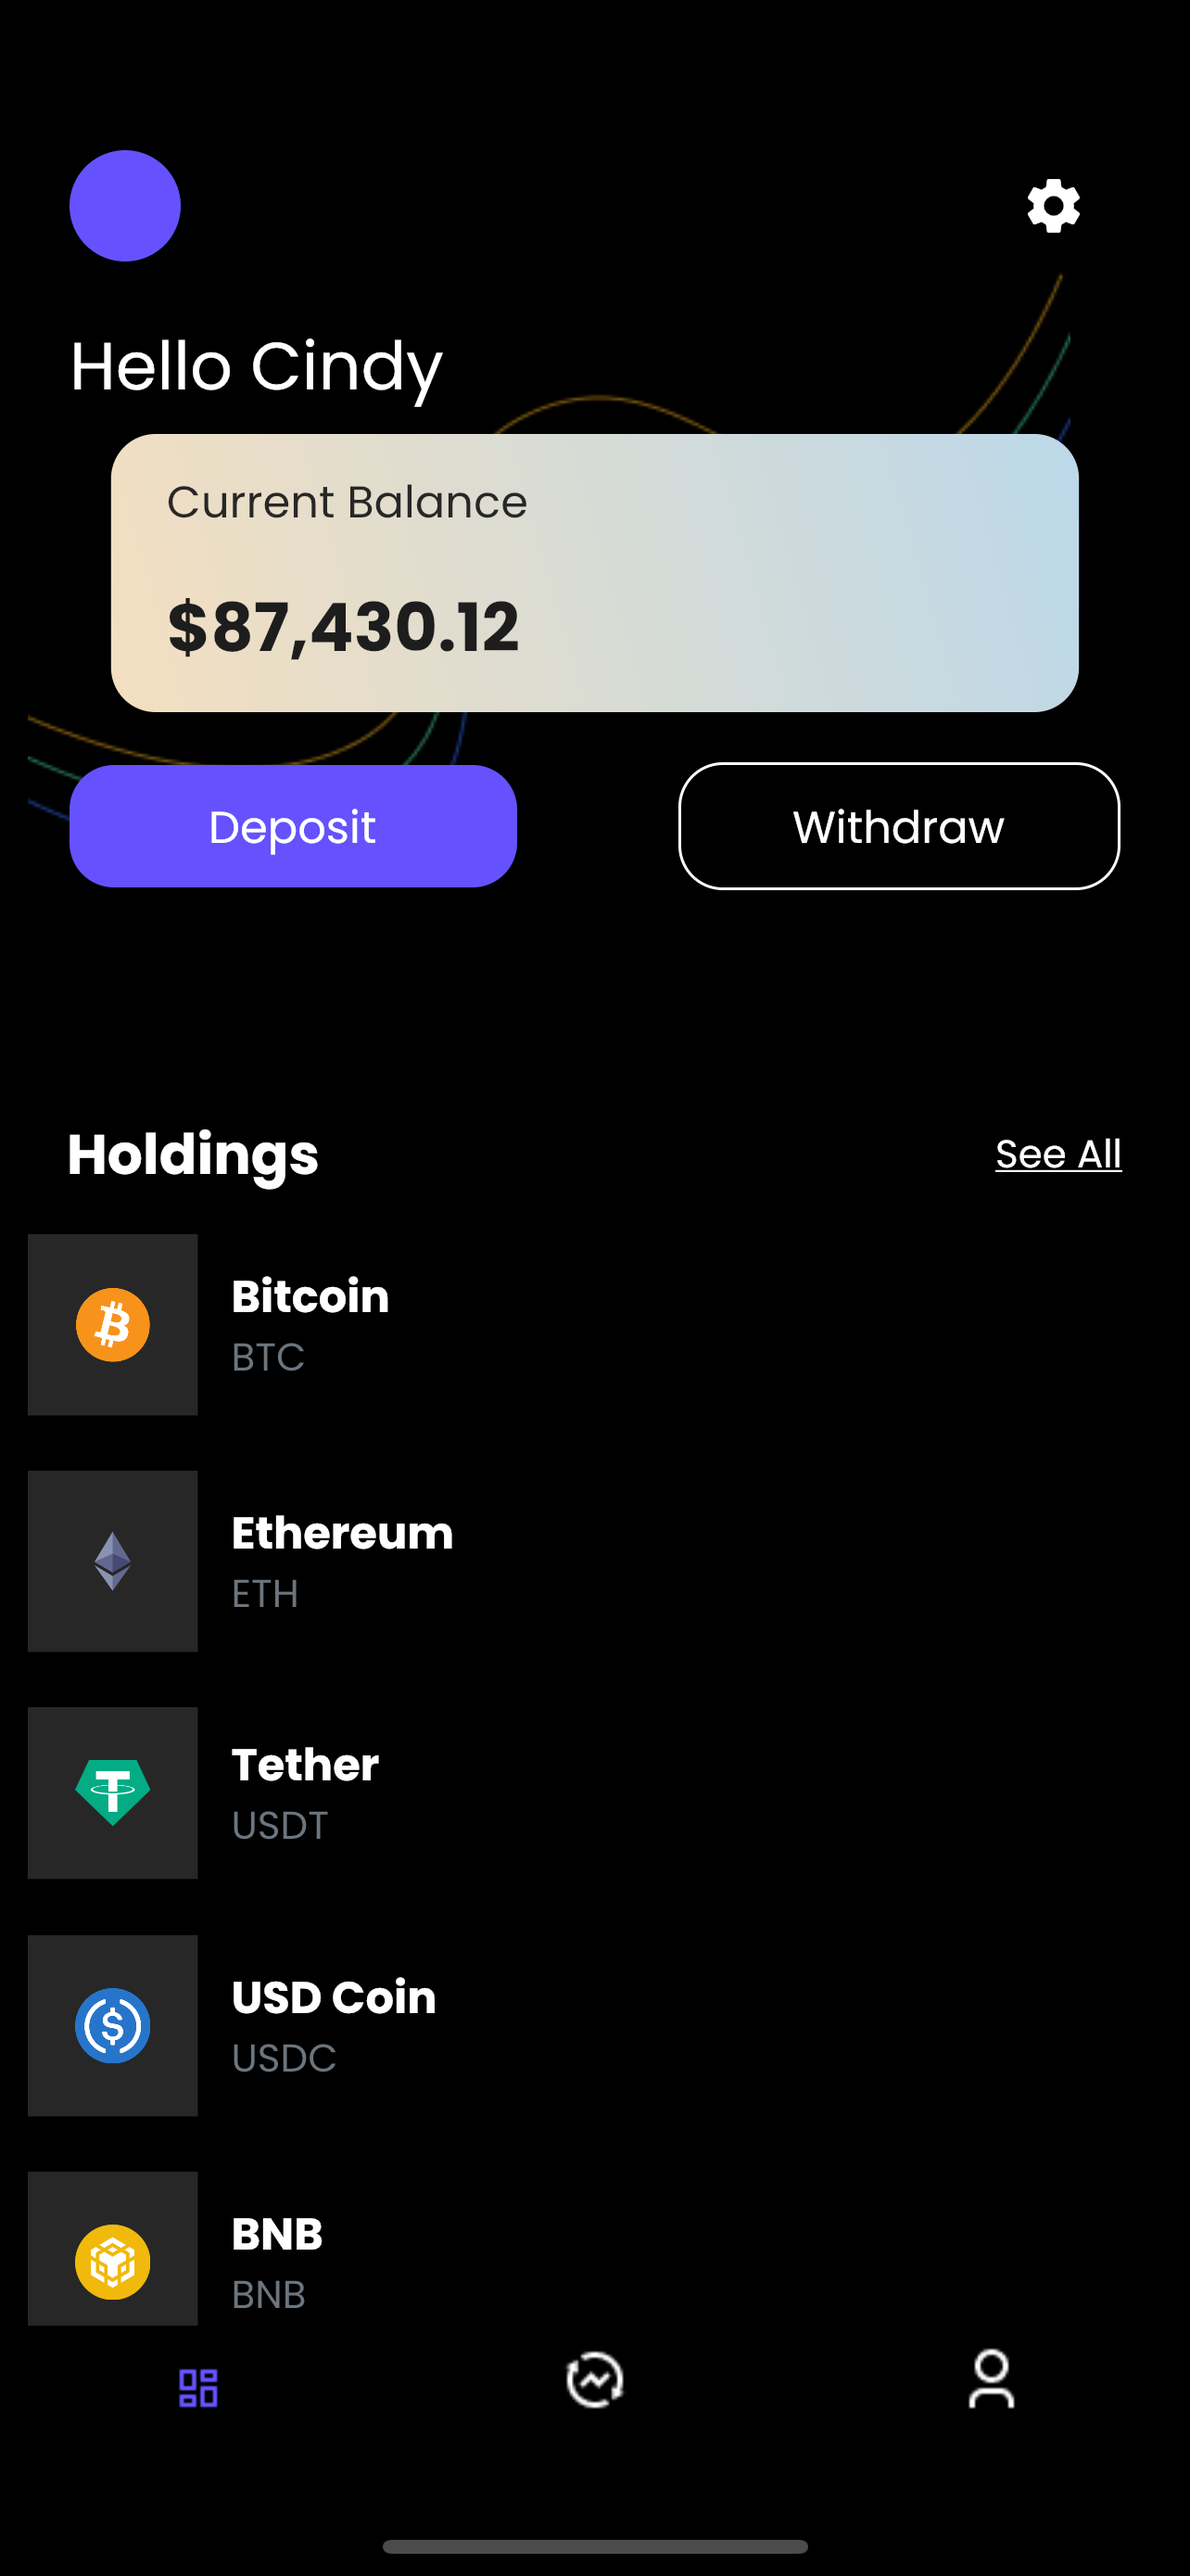
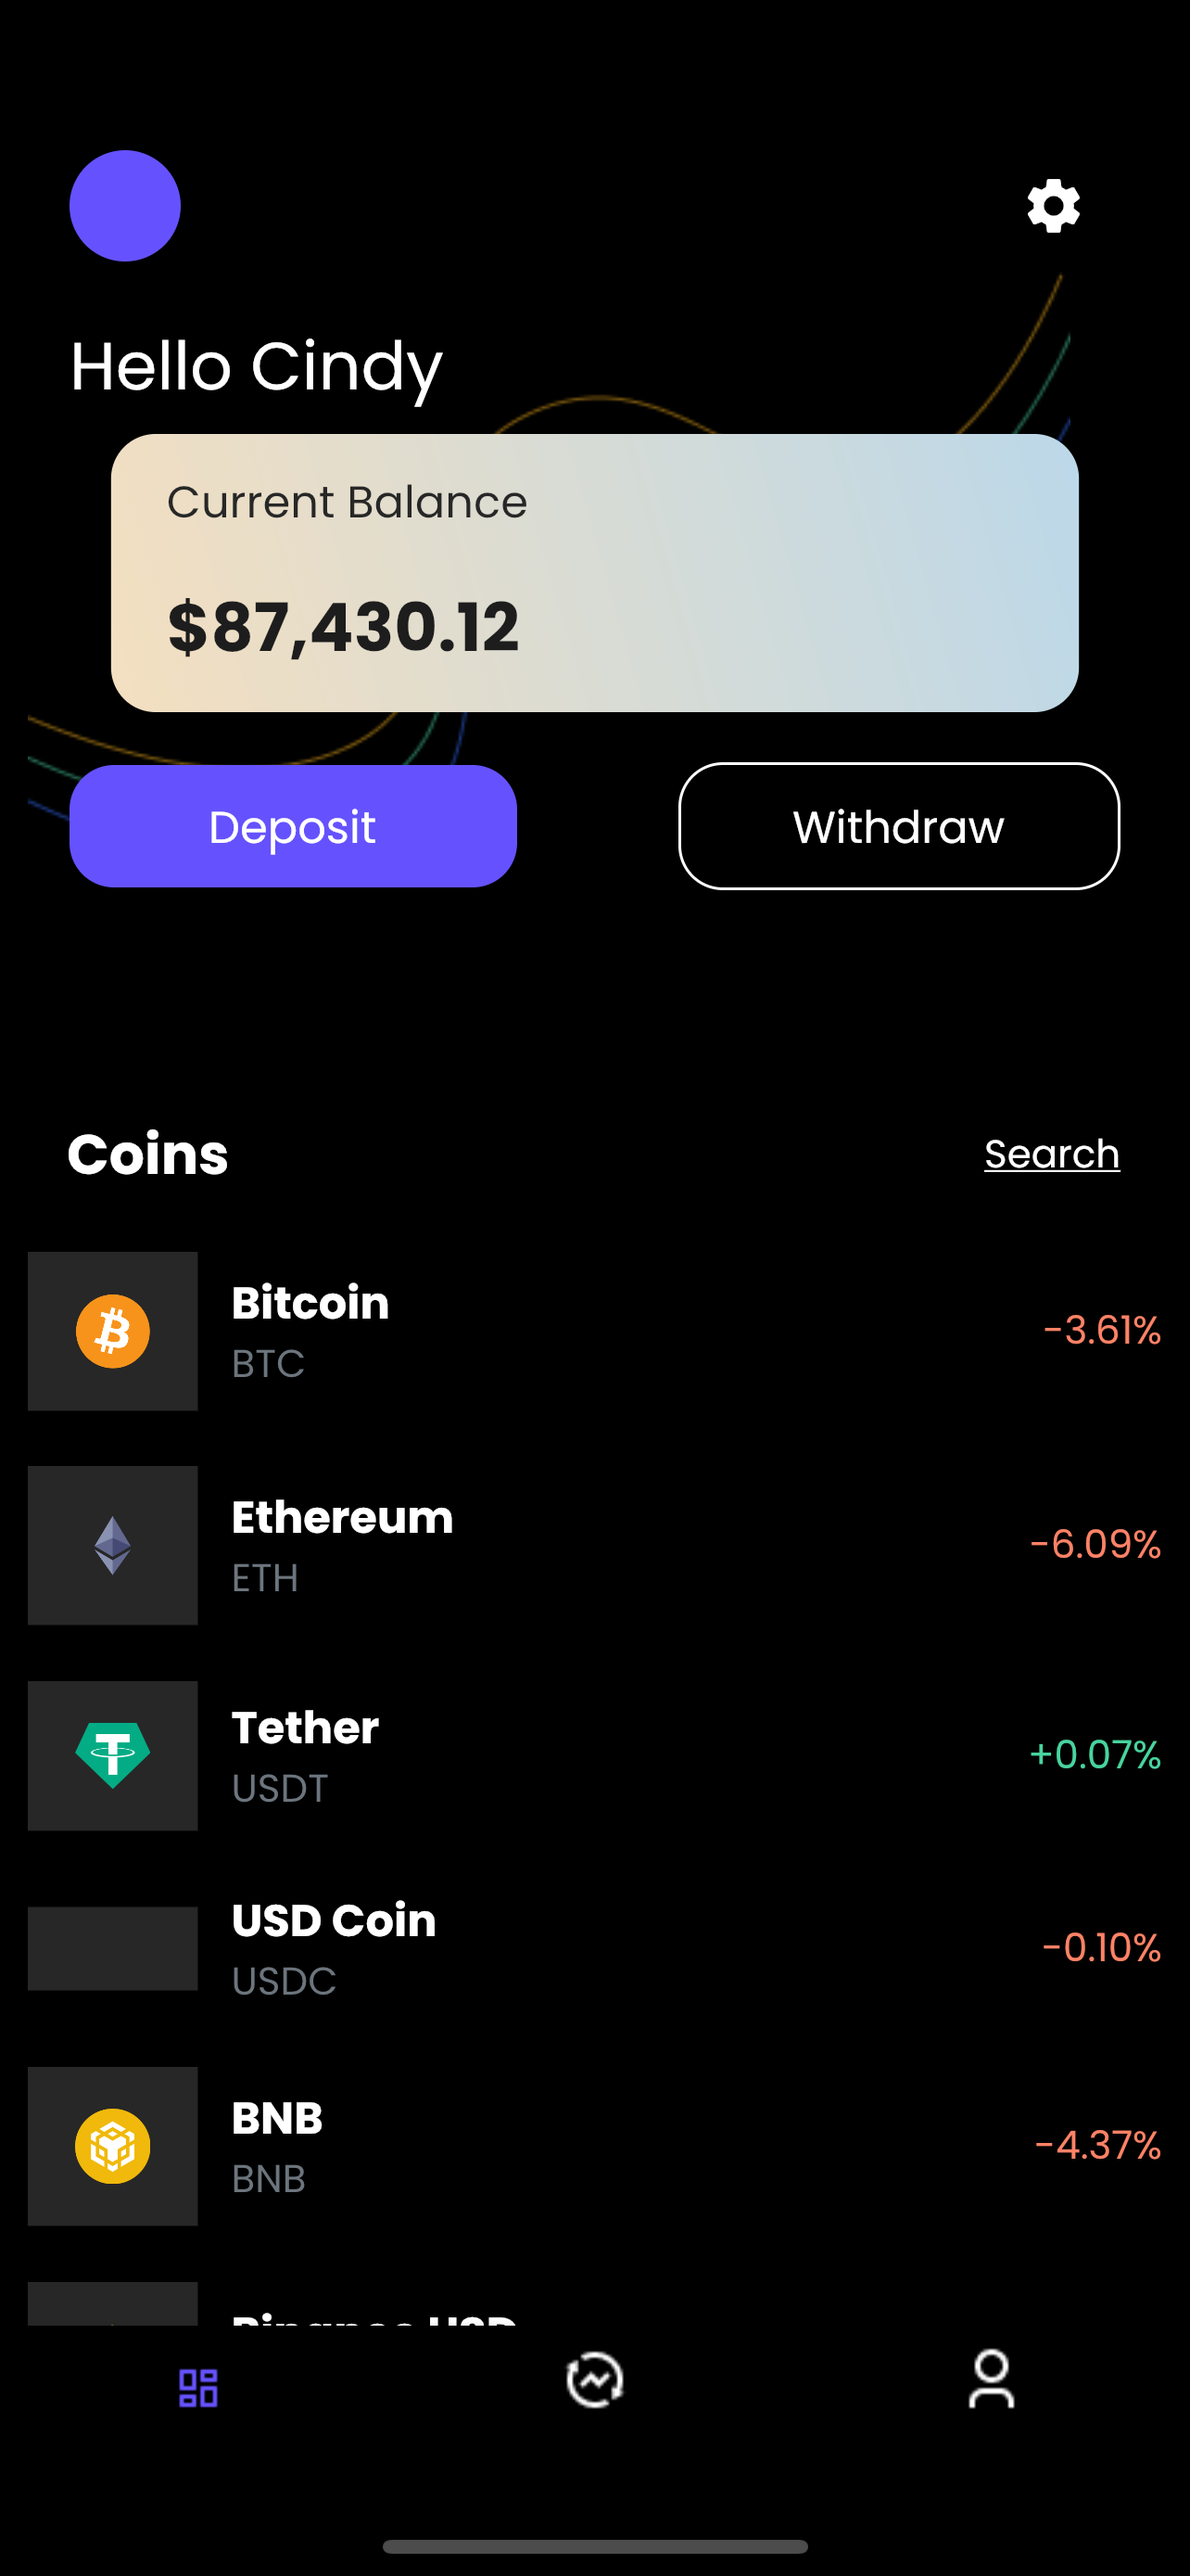
ui fix

diff --git a/lib/presentation/widgets/coin_data_widget.dart b/lib/presentation/widgets/coin_data_widget.dart
@@ -32,6 +32,7 @@ class _CoinDataWidgetState extends ConsumerState<CoinDataWidget> {
                     shrinkWrap: true,
                     itemCount: data!.length,
                     itemBuilder: (context, index) {
+                      final string = data![index].priceChangePercentage24H!.toStringAsFixed(2);
                       return Padding(
                         padding: const EdgeInsets.all(10.0),
                         child: Row(
@@ -66,6 +67,27 @@ class _CoinDataWidgetState extends ConsumerState<CoinDataWidget> {
                               ],
                             ),
                             const SizedBox(width: 22),
+                            const Spacer(),
+                            data[index]!
+                                    .priceChangePercentage24H!
+                                    .toString()
+                                    .contains('-')
+                                ? Text(
+                                    '$string%',
+                                    textAlign: TextAlign.end,
+                                    style: const TextStyle(
+                                        fontFamily: 'Poppins',
+                                        fontWeight: FontWeight.w400,
+                                        color: dipColor,
+                                        fontSize: 14))
+                                : Text(
+                                    '+$string%',
+                                    textAlign: TextAlign.end,
+                                    style: const TextStyle(
+                                        fontFamily: 'Poppins',
+                                        fontWeight: FontWeight.w400,
+                                        color: greenColor,
+                                        fontSize: 14)),
                           ],
                         ),
                       );

diff --git a/lib/presentation/screens/home_screen.dart b/lib/presentation/screens/home_screen.dart
@@ -29,20 +29,25 @@ class HomeScreen extends StatelessWidget {
             padding: const EdgeInsets.fromLTRB(24, 40, 24, 10),
             child: Row(
               mainAxisAlignment: MainAxisAlignment.spaceBetween,
-              children: const [
-                Text('Holdings',
+              children: [
+                const Text('Coins',
                     style: TextStyle(
                         fontFamily: 'Poppins',
                         fontWeight: FontWeight.w700,
                         color: wColor,
                         fontSize: 20)),
-                Text('See All',
-                    style: TextStyle(
-                        fontFamily: 'Poppins',
-                        fontWeight: FontWeight.w500,
-                        color: wColor,
-                        decoration: TextDecoration.underline,
-                        fontSize: 14))
+                InkWell(
+                  onTap: () {
+
+                  },
+                  child: const Text('Search',
+                      style: TextStyle(
+                          fontFamily: 'Poppins',
+                          fontWeight: FontWeight.w500,
+                          color: wColor,
+                          decoration: TextDecoration.underline,
+                          fontSize: 14)),
+                )
               ],
             ),
           ),

diff --git a/lib/logic/view_model_provider.dart b/lib/logic/view_model_provider.dart
@@ -1,8 +1,6 @@
-import 'package:crypto_app/data/model/crypto_model.dart';
 import 'package:crypto_app/logic/manager/crypto_dm.dart';
-import 'package:crypto_app/logic/view_model/coin_data_view_model.dart';
 import 'package:flutter_riverpod/flutter_riverpod.dart';
-import 'controllers/request_view_model.dart';
+
 
 final cryptoDataProvider = FutureProvider.autoDispose((ref) {
   ref.maintainState = true;

diff --git a/lib/presentation/utils/constants/colors.dart b/lib/presentation/utils/constants/colors.dart
@@ -10,3 +10,5 @@ const gColor3 =Color(0xffd796a8);
 const gColor4 =Color(0xffc4769d);
 const gColor5 =Color(0xffd4ddda);
 const blackAsh = Color(0xff6C757D);
+const greenColor = Color(0xff48D49E);
+const dipColor = Color(0xffFF8266);
